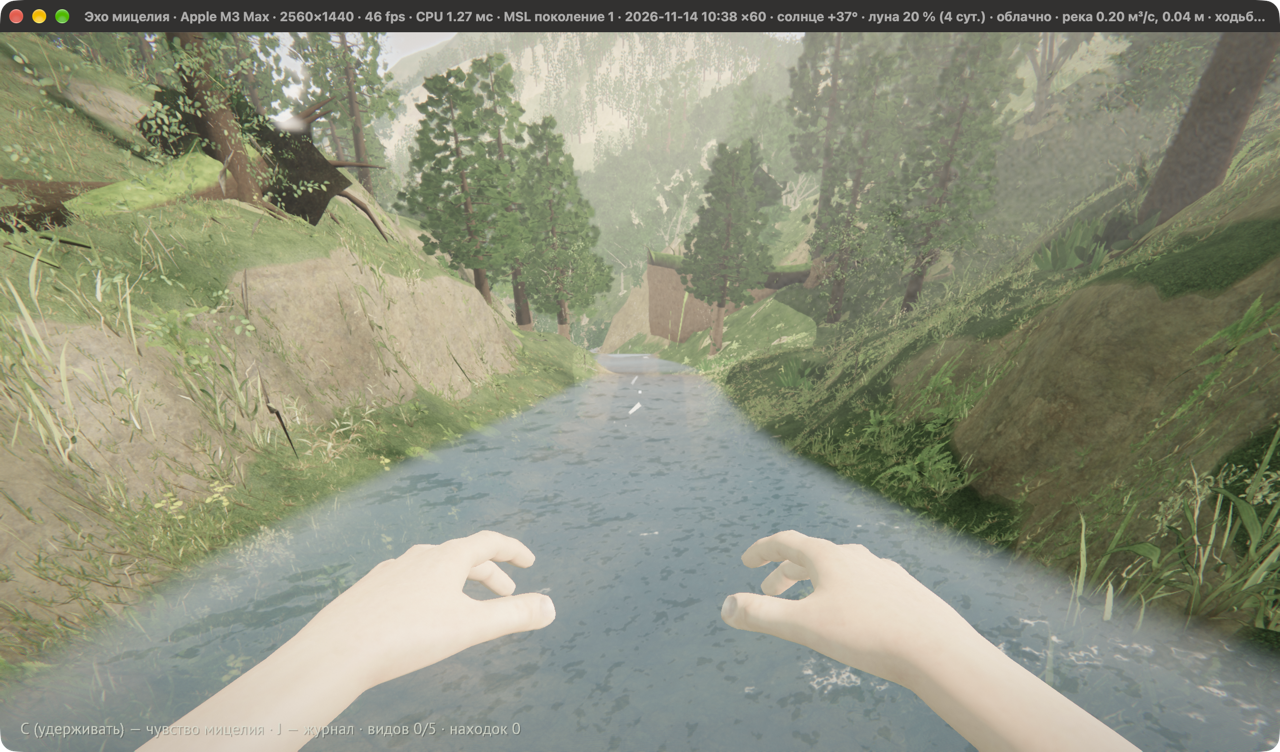
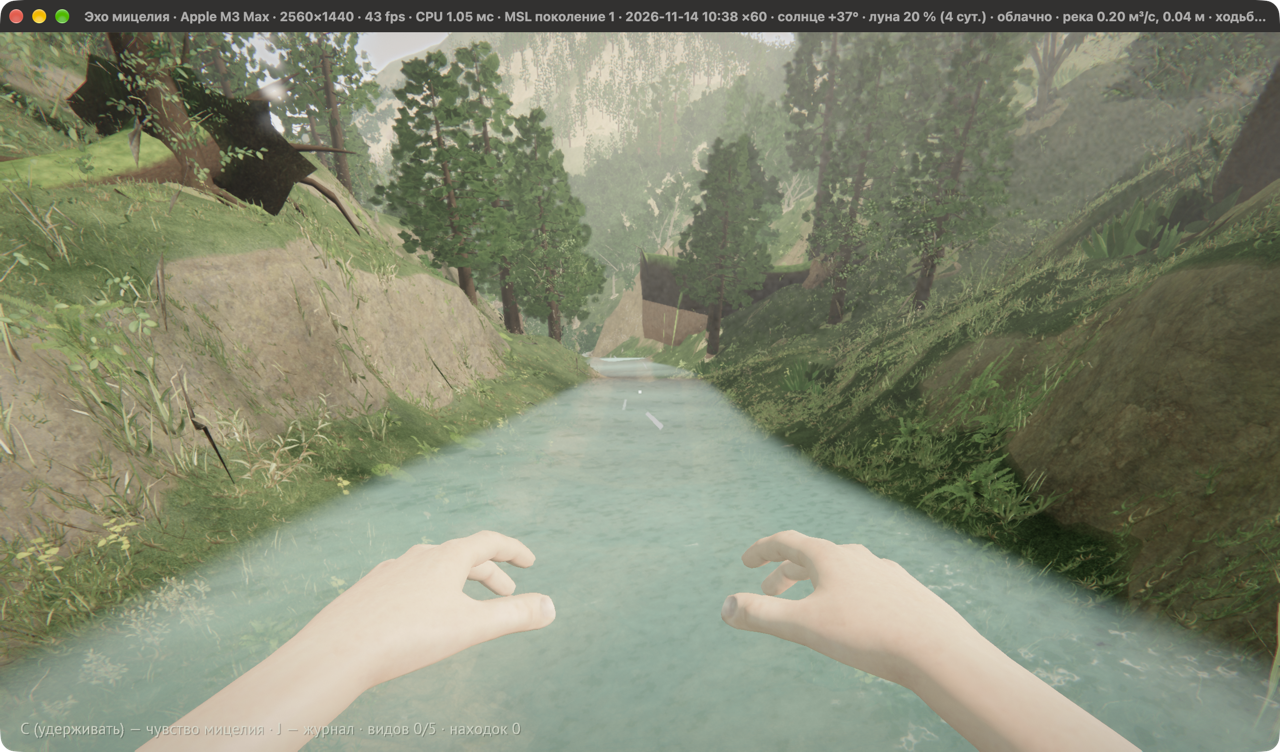
River mouths: sea water optics shared with rivers, river level not below sea, ribbon fades into the sea; ECHO_MOUTHS lists mouths

diff --git a/src/app/mod.rs b/src/app/mod.rs
@@ -158,6 +158,27 @@ impl App {
             )
         });
         eprintln!("гидрология: {} участков рек", hydrology.reaches.len());
+        if std::env::var_os("ECHO_MOUTHS").is_some() {
+            // Устья в море (03.2): крупнейшие по водосбору — для камер.
+            let mut m: Vec<_> = hydrology
+                .reaches
+                .iter()
+                .filter(|r| r.into.is_none())
+                .collect();
+            m.sort_by(|a, b| b.area_m2.total_cmp(&a.area_m2));
+            for r in m.iter().take(8) {
+                let h = world
+                    .sample_ground(r.mouth.x, r.mouth.y)
+                    .map(|g| (g.height, g.wet));
+                eprintln!(
+                    "устье: ({:.0}, {:.0}) площадь {:.1} км² ширина {:.0} м грунт {h:?}",
+                    r.mouth.x,
+                    r.mouth.y,
+                    r.area_m2 / 1e6,
+                    r.width_m
+                );
+            }
+        }
         eprintln!(
             "мир: {}, seed {:#x}, {}×{} тайлов, генератор v{}, собран за {:.0} мс, контрольная сумма {:016x}",
             args.world

diff --git a/src/hydrology.rs b/src/hydrology.rs
@@ -301,6 +301,10 @@ impl Hydrology {
                 }
                 fill(&mut w, d * 0.5);
             }
+            // Устье: не ниже моря — река переходит в его поверхность.
+            for x in &mut w {
+                *x = x.max(crate::world::generator::SEA_LEVEL + 0.05);
+            }
             for (j, &i) in segs.iter().enumerate() {
                 out[i] = [w[j], w[j + 1]];
             }

diff --git a/reports/03-2-river.md b/reports/03-2-river.md
@@ -57,6 +57,7 @@
 | Уровень ×3 (второй раз) | Ручьи по гидрологии — 4 см, ×3 было незаметно: наименьшая глубина демо 0,9 м (×3 от прежних 0,3 м), полоса шире с глубиной | passed | — |
 | Вид воды | «Пена нереалистична», «вода не похожа на воду», «потеря прозрачности с глубиной, голубоватые оттенки»: пена — струи вдоль течения с покрытием по уклону; поглощение по глубине под пикселем и преломлённому лучу, рассеяние неба, отражение берегов и неба на ряби, блики | passed | [вода](../logs/screens/03-2-river-water.png) |
 | Рыба видна | Тело было ~1 см толщиной и ребром к камере: тело 0,35 м плоскостью к камере, прыжки чаще (1,5–4,5 с), разброс ±70° от течения | passed | рыба в кадре при отладочном периоде 0,8 с |
+| Устья и цвет как у моря | «Цвет воды сильно отличается у моря и реки»: в `river_fs` поглощение и рассеяние — из модели моря (`water.metal`, толща ×1,5); уровень у устья не ниже моря, лента растворяется, где дно ниже моря. `ECHO_MOUTHS=1` печатает 8 крупнейших устьев | partial | [устье Анбо](../logs/screens/03-2-river-mouth.png): цвета совпадают, но врезанное русло между лентой и кромкой моря темнеет — море не заходит в русло |
 | Рыба аю | `fish_vs`/`fish_fs`: до 32 рыб на реках в 60 м (точки — с CPU дважды в секунду), прыжок 0,75 с вверх по течению по параболе (до ~0,45 м), брызги при взлёте и входе в воду; тело — ромб с хвостом | partial | в неподвижном кадре не попала (прыжки раз в 3–8 с) — проверить в игре |
 
 ## implementation

diff --git a/architecture/00-arch.md b/architecture/00-arch.md
@@ -1622,3 +1622,4 @@ Renderer хранит четыре плана `plans[prev][cur]` и выбира
 | 2026-11-15 | 03.2 (демо-сплав) | после `c195b7b` | `app/raft.rs` (`Raft::new/step`, `LEVEL_SCALE`), `--raft`, `App.raft` подменяет камеру и симуляцию; `river.metal`: `LEVEL_SCALE`, сильнее волны и пена, Френель по ряби, `fish_vs`/`fish_fs`; `Renderer.fish`, `fish_count`, `set_fish`, `FISH_MAX`; `Pipelines.fish`; рыба — в `draw_river` |
 | 2026-11-15 | 03.2 (швы реки) | после `2e05201` | `river_vs`: течение у вершины — среднее с соседом; `river_fs`: рябь и пена в мировых координатах со сдвигом по течению (две фазы) |
 | 2026-11-15 | 03.2 (уровень воды) | после `4ceb7ad` | AD-88: `Hydrology::bed`, `levels`, `LEVEL_MIN_M`; `Renderer.river_levels`, `set_river_levels` (слот 5 в `draw_river`); `river_vs` — уровень из буфера, полоса шире с глубиной, уклон по поверхности воды; `river_fs` — пена струями в системе течения, глубина под пикселем, преломление и поглощение, блики; рыба — к камере, крупнее, чаще; `Raft::step(world, dt, levels)`; `App.river_levels` |
+\n| 2026-11-15 | 03.2 (устья) | после `5eb193c` | `river_fs`: оптика воды моря (absorb/scatter из `water.metal`), растворение ленты над дном ниже моря; `Hydrology::levels` не ниже `SEA_LEVEL`; `ECHO_MOUTHS` — список устьев в журнал |\n
